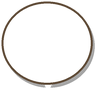
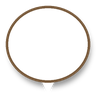
Main screen as on the phone: open on the Hearth's floor, buttons on a bottom panel, centred; round collect clouds
The UI preview now lays out areas, scroll views and spacing like Unity and crops to the phone's
screen, so it shows what the phone shows (the old one drew the cutaway from the top, which looked
like the buttons sat on the rooms).

Claude-Session: https://claude.ai/code/session_01LxpfNJDLrR1b4p9pJ7xapP

Changed region(s): [[0.0, 0.0, 1.0, 0.9375]]

diff --git a/hearth/ui-smoke/UnityStubs.cs b/hearth/ui-smoke/UnityStubs.cs
@@ -1,3 +1,4 @@
+using System.Collections.Generic;
 using System;
 using System.IO;
 
@@ -303,7 +304,10 @@ namespace UnityEngine
         {
             if (w <= 0 || h <= 0)
                 throw new InvalidOperationException("empty layout rectangle");
-            return new Rect(0, 0, w, h);
+            // a simple vertical layout, like Unity's: inside the area, under what came before, moved by the scroll
+            var r = new Rect(GUILayout.X, GUILayout.Y - GUILayout.ScrollY, w, h);
+            GUILayout.Y += h;
+            return r;
         }
     }
 
@@ -314,11 +318,33 @@ namespace UnityEngine
         public static Func<string, bool> Click = _ => false;
         public static int Depth;
 
-        public static void BeginArea(Rect r) => Depth++;
-        public static void EndArea() => Depth--;
-        public static Vector2 BeginScrollView(Vector2 v, params GUILayoutOption[] o) { Depth++; return v; }
-        public static Vector2 BeginScrollView(Vector2 v, GUIStyle h, GUIStyle w, params GUILayoutOption[] o) { Depth++; return v; }
-        public static void EndScrollView() => Depth--;
+        // where the next layout rectangle goes (only vertical stacking is modelled)
+        public static float X, Y, ScrollY;
+        static readonly Stack<(float x, float y, float scroll)> saved = new Stack<(float, float, float)>();
+
+        public static void BeginArea(Rect r)
+        {
+            Depth++;
+            saved.Push((X, Y, ScrollY));
+            X = r.x;
+            Y = r.y;
+            ScrollY = 0;
+        }
+
+        public static void EndArea()
+        {
+            Depth--;
+            (X, Y, ScrollY) = saved.Pop();
+        }
+
+        public static Vector2 BeginScrollView(Vector2 v, params GUILayoutOption[] o) { Depth++; saved.Push((X, Y, ScrollY)); ScrollY += v.y; return v; }
+        public static Vector2 BeginScrollView(Vector2 v, GUIStyle h, GUIStyle w, params GUILayoutOption[] o) => BeginScrollView(v);
+
+        public static void EndScrollView()
+        {
+            Depth--;
+            (X, Y, ScrollY) = saved.Pop();
+        }
         public static void Label(string t, params GUILayoutOption[] o) => Check(t);
         public static void Label(string t, GUIStyle s, params GUILayoutOption[] o) => Check(t);
         public static bool Button(string t, params GUILayoutOption[] o) { Check(t); return GUI.enabled && Click(t); }
@@ -327,7 +353,7 @@ namespace UnityEngine
         public static void EndHorizontal() => Depth--;
         public static void BeginVertical(params GUILayoutOption[] o) => Depth++;
         public static void EndVertical() => Depth--;
-        public static void Space(float p) { }
+        public static void Space(float p) => Y += p;
         public static void FlexibleSpace() { }
         public static GUILayoutOption Width(float w) => null;
         public static GUILayoutOption Height(float h) => null;

diff --git a/hearth/unity/LastHearth/Assets/LastHearth/Game/GameRunner.Hud.cs b/hearth/unity/LastHearth/Assets/LastHearth/Game/GameRunner.Hud.cs
@@ -79,9 +79,12 @@ namespace LastHearth.Game
             viewWidth = area.width;
             if (!framed)
             {
-                // open on the rooms, not on the sky: the mountain above is mostly scrolled away
+                // open on the Hearth's floor, in the middle of what the HUD leaves visible
                 framed = true;
-                scroll.y = viewWidth * 0.5f * 0.62f;
+                var g = session.Balance.Grid;
+                float cellW = Math.Max(60, (viewWidth - 8) / g.Cells), cellH = cellW * 0.5f;
+                float hearthTop = (top - 6) + cellW * g.Cells * 0.5f * 0.8f + (ShownFloors().top - g.HearthFloor) * cellH;
+                scroll.y = Math.Max(0, hearthTop + cellH / 2 - (top + (area.height - top - bottom) / 2));
             }
             scroll = GUILayout.BeginScrollView(scroll, GUIStyle.none, GUIStyle.none);
             GUILayout.Space(top - 6);
@@ -182,6 +185,8 @@ namespace LastHearth.Game
 
         void DrawBottomButtons(Rect bar, long now)
         {
+            // the buttons stand on their own wooden panel along the bottom, not on the rooms
+            ArtLibrary.Draw(new Rect(bar.x - 8, bar.y + 22, Screen.width / uiScale + 16, bar.height), "UI/Bar");
             var st = session.State;
             var b = session.Balance;
             float size = Mathf.Min(64, bar.height - 22);
@@ -195,14 +200,14 @@ namespace LastHearth.Game
                 ("Buttons/Growth", "Развитие", Win.Growth, false),
                 ("Buttons/Routes", "Вылазки", Win.Routes, false),
             };
-            // "collect all" on the left, the windows to the right of it
-            float x = bar.x + 6;
+            // "collect all" first, the windows after it, all centred on the panel
+            float x = bar.x + Math.Max(6, (bar.width - (buttons.Length + 1) * (size + 22) - 4) / 2);
             if (RoundButton(new Rect(x, bar.y + 4, size, size), "Buttons/Collect", "Собрать", st.Rooms.Any(r => r.Stock >= 1)))
             {
                 session.CollectAll();
                 sounds?.Play("Coins");
             }
-            x += size + 26;
+            x += size + 22;
             foreach (var (icon, label, win, dot) in buttons)
             {
                 if (RoundButton(new Rect(x, bar.y + 4, size, size), icon, label, dot))

diff --git a/hearth/tools/art/ui.py b/hearth/tools/art/ui.py
@@ -143,15 +143,27 @@ def badge(size=64):
 
 
 def bubble(size=96):
-    """The cloud over a room with something to collect: white, round, a little tail (the game puts
-    the resource's icon in it)."""
+    """The cloud over a room with something to collect: a white disc with a soft shadow and a little
+    tail (the game puts the resource's icon in its middle)."""
     S = size * 4
     img = Image.new("RGBA", (S, S), (0, 0, 0, 0))
+    shadow = Image.new("RGBA", (S, S), (0, 0, 0, 0))
+    ImageDraw.Draw(shadow).ellipse((S * 0.1, S * 0.12, S * 0.94, S * 0.9), fill=(0, 0, 0, 110))
+    img.alpha_composite(shadow.filter(ImageFilter.GaussianBlur(10)))
     d = ImageDraw.Draw(img)
-    d.ellipse((14, 18, S - 6, S - 34), fill=(0, 0, 0, 90))
-    d.polygon([(S * 0.42, S * 0.78), (S * 0.58, S * 0.78), (S * 0.5, S * 0.97)], fill=(255, 255, 255, 255))
-    d.ellipse((6, 6, S - 14, S - 46), fill=(255, 255, 255, 255), outline=(90, 70, 50, 255), width=8)
+    d.polygon([(S * 0.4, S * 0.78), (S * 0.6, S * 0.78), (S * 0.5, S * 0.98)], fill=(255, 255, 255, 255))
+    d.ellipse((S * 0.06, S * 0.06, S * 0.94, S * 0.86), fill=(255, 255, 255, 255), outline=(120, 90, 60, 255), width=10)
     return img.resize((size, size), Image.LANCZOS)
+
+
+def bar(size=(512, 112)):
+    """The bottom panel under the main screen's round buttons: dark wood with a gold top edge."""
+    w, h = size
+    wood = plank((w, h), brightness=0.55, studs=False, crop_y=20).convert("RGBA")
+    d = ImageDraw.Draw(wood)
+    d.rectangle((0, 0, w, 5), fill=GOLD + (255,))
+    d.rectangle((0, 5, w, 8), fill=DARK + (255,))
+    return wood
 
 
 def plus(size=96):
@@ -277,6 +289,7 @@ def render_all(out_dir=OUT):
     plus().save(os.path.join(out_dir, "Plus.png"))
     pill().save(os.path.join(out_dir, "Pill.png"))
     round_button().save(os.path.join(out_dir, "Round.png"))
+    bar().save(os.path.join(out_dir, "Bar.png"))
     window().save(os.path.join(out_dir, "Window.png"))
     close_button().save(os.path.join(out_dir, "Close.png"))
     dot().save(os.path.join(out_dir, "Dot.png"))

diff --git a/hearth/unity/LastHearth/Assets/LastHearth/Game/GameRunner.View.cs b/hearth/unity/LastHearth/Assets/LastHearth/Game/GameRunner.View.cs
@@ -72,9 +72,11 @@ namespace LastHearth.Game
         {
             float s = Mathf.Max(28, r.height * 0.34f);
             float bob = Mathf.Sin(Time.time * 2.5f + seed) * s * 0.06f;
-            var b = new Rect(r.center.x - s / 2, r.y + r.height * 0.1f + bob, s, s);
+            var b = new Rect(r.center.x - s / 2, r.y + r.height * 0.14f + bob, s, s);
             ArtLibrary.Draw(b, "UI/Bubble");
-            ArtLibrary.Draw(new Rect(b.x + s * 0.2f, b.y + s * 0.13f, s * 0.6f, s * 0.6f), "Icons/" + resource);
+            // the disc of the cloud is 0.06..0.94 wide and 0.06..0.86 high: the icon fills its middle
+            float icon = s * 0.62f;
+            ArtLibrary.Draw(new Rect(b.x + s * 0.5f - icon / 2, b.y + s * 0.46f - icon / 2, icon, icon), "Icons/" + resource);
             return Tap(new Rect(b.x - s * 0.15f, b.y - s * 0.15f, s * 1.3f, s * 1.3f));
         }
 

diff --git a/hearth/ui-smoke/preview.py b/hearth/ui-smoke/preview.py
@@ -15,9 +15,9 @@ def main(calls, out, scale=2):
         l = l.rstrip("\n")
         if l:
             lines.append(l.split("|") if l.startswith(("T|", "S|")) else l.split("|", 4))
-    tex = [l for l in lines if l[0] in "TS"]
-    w = int(max(float(t[2]) + float(t[4]) for t in tex) * scale) + 4
-    h = int(max(float(t[3]) + float(t[5]) for t in tex) * scale) + 4
+    # the phone of the stubs: 2400 x 1080 px at 420 dpi, the interface scaled by 420 / 190
+    ui = 420 / 190
+    w, h = int(2400 / ui * scale), int(1080 / ui * scale)
     img = Image.new("RGBA", (w, h), (20, 18, 22, 255))
     try:
         font = ImageFont.truetype("DejaVuSans-Bold.ttf", 12 * scale)
